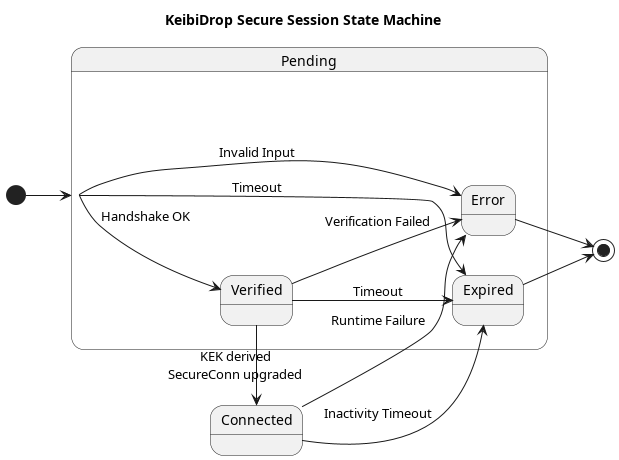
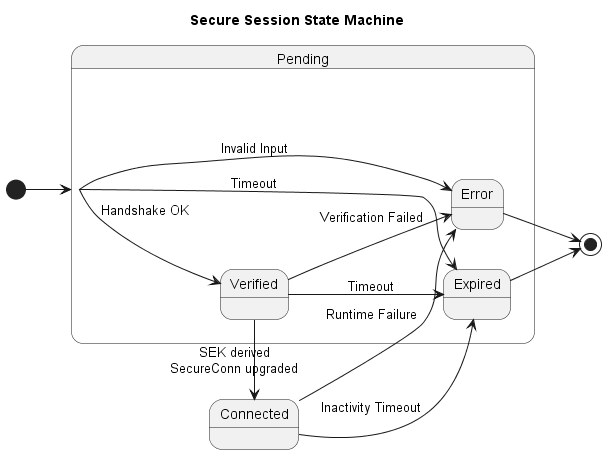
docs+session: fix handshake logic and complete full-duplex SecureConn (#2)
- Updated handshake.puml to reflect correct full-duplex secure handshake:
  • Explicit ephemeral key variables (PK_A1, PK_B2, etc.)
  • Deterministic fingerprint checks (FP_A, FP_B)
  • Bidirectional TCP connection setup (Bob → Alice, Alice → Bob)
  • Encrypted "OK" message exchange both ways
  • Accurate SEK derivation and SecureConn setup for Inbound/Outbound

- Fixed terminology across diagrams (KEK → SEK)

- Updated `pkg/session/handshake.go`:
  • Added missing logging for session transitions

diff --git a/pkg/session/handshake.go b/pkg/session/handshake.go
@@ -70,6 +70,7 @@ func PerformInboundHandshake(session *Session, conn net.Conn) error {
 	logger.Info("Peer fingerprint verified, awaiting user confirmation")
 	// In real UI, this would be blocking for user approval
 	if err := session.Transition(SessionStateVerified); err != nil {
+		logger.Error("Failed to transition session state", "error", err)
 		return err
 	}
 

diff --git a/docs/DesignDecisions.md b/docs/DesignDecisions.md
@@ -15,7 +15,7 @@ Each decision is assigned a unique ID for reference in commits, issues, and code
 
   - Use a hybrid model for session lifecycle control:
     - All state changes go through `Transition(to string)`
-    - Sensitive actions (e.g., KEK derivation, file transfer) must call `Validate*()` guards
+    - Sensitive actions (e.g., SEK derivation, file transfer) must call `Validate*()` guards
 
 - **Rationale:**
 
